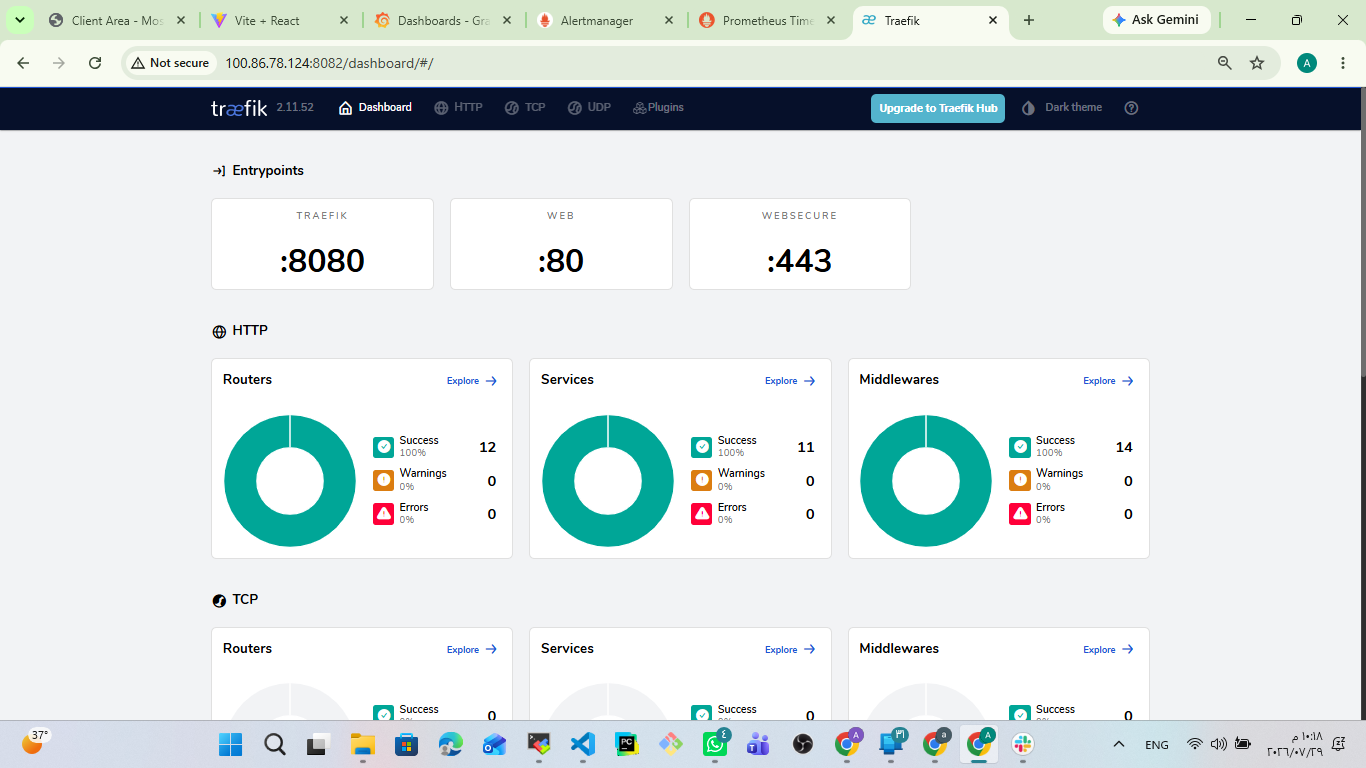
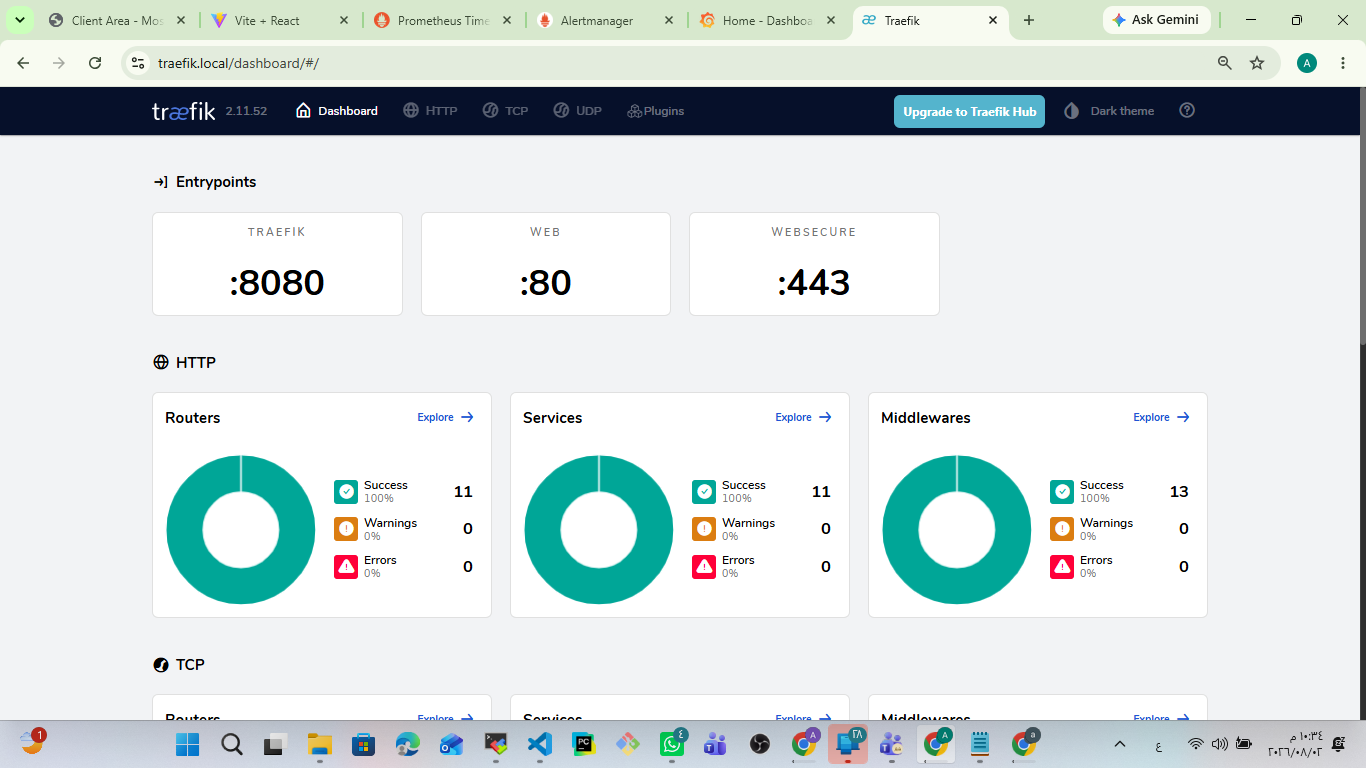
Configure secure Traefik dashboard with HTTPS and host-based routing

diff --git a/README.md b/README.md
@@ -353,6 +353,8 @@ Traefik acts as the entry point for the entire platform and is responsible for r
 
 ## Traefik Dashboard
 
+https://traefik.local/dashboard/
+
 The dashboard provides complete visibility into routers, services and middlewares.
 
 <p align="center">
